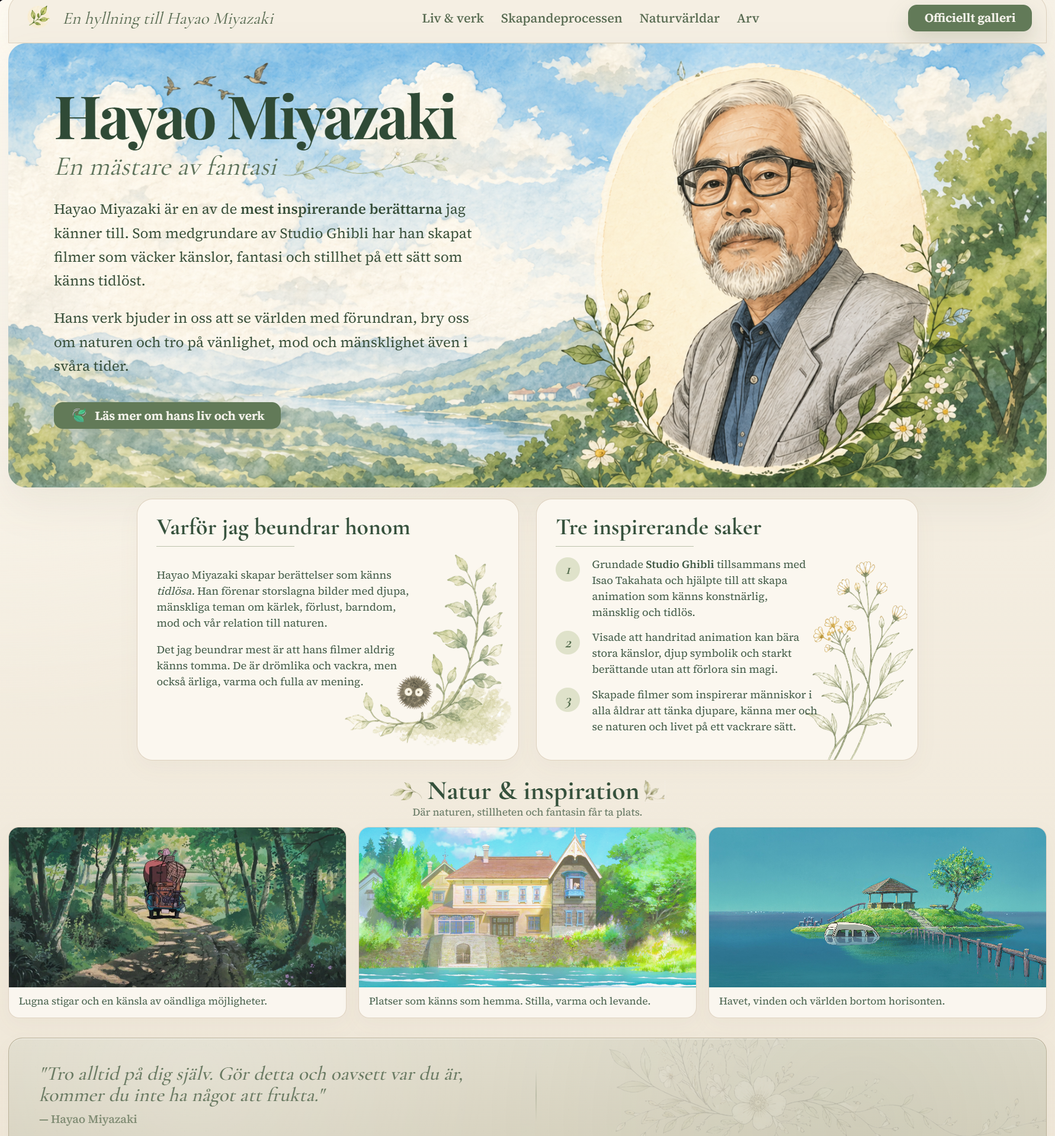
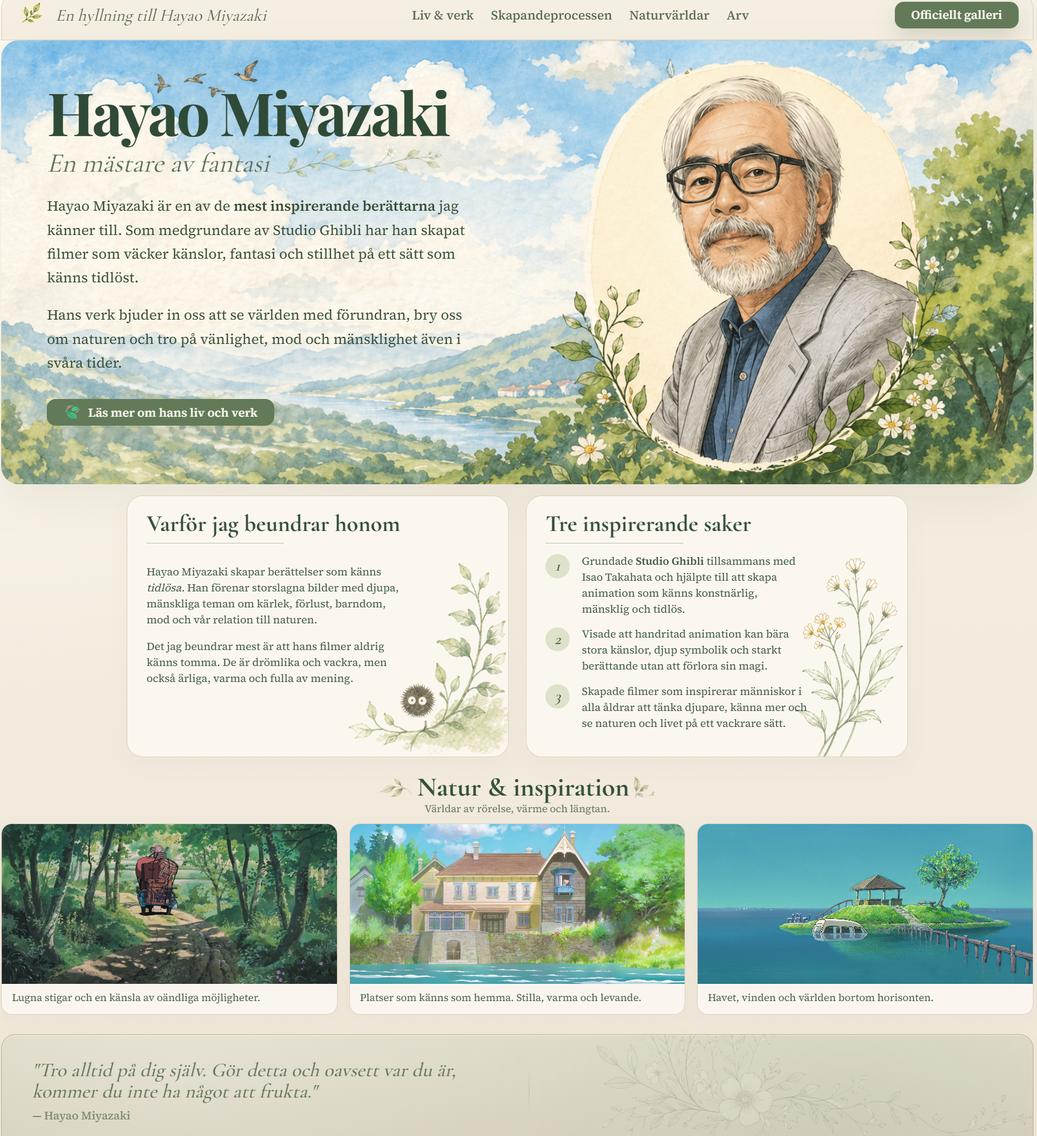
Update screenshot and bust stylesheet cache

diff --git a/index.html b/index.html
@@ -7,7 +7,7 @@
   <link rel="preconnect" href="https://fonts.googleapis.com">
   <link rel="preconnect" href="https://fonts.gstatic.com" crossorigin>
   <link href="https://fonts.googleapis.com/css2?family=Playfair+Display:wght@500;600;700&family=Cormorant+Garamond:wght@400;500;600;700&family=Inter:wght@400;500;600&family=Source+Serif+4:wght@400;500;600&display=swap" rel="stylesheet">
-  <link rel="stylesheet" href="style.css">
+  <link rel="stylesheet" href="style.css?v=1.0">
 </head>
 <body>
   <div class="site-shell">
@@ -98,7 +98,7 @@
     <img src="images/nature-leaf-right.svg" alt="" class="nature-leaf nature-leaf-right" aria-hidden="true">
   </h2>
 
-  <p class="section-subtitle">Där naturen, stillheten och fantasin får ta plats.</p>
+  <p class="section-subtitle">Världar av rörelse, värme och längtan.</p>
 </section>
 
       <section class="gallery-grid">
